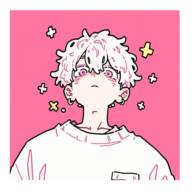
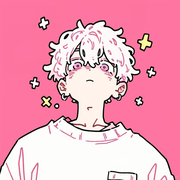
Add files via upload

diff --git a/styles.css b/styles.css
@@ -1,0 +1,99 @@
+:root {
+  --ink: #243a34;
+  --forest: #315c50;
+  --forest-dark: #23453b;
+  --sage: #a8c2ad;
+  --mist: #edf3ed;
+  --paper: #faf9f5;
+  --sand: #e8dfcf;
+  --clay: #bd6958;
+  --line: #d9dfd9;
+  --muted: #65756d;
+  --shadow: 0 12px 38px rgba(31, 57, 48, .08);
+}
+
+* { box-sizing: border-box; }
+html { scroll-behavior: smooth; }
+body { margin: 0; color: var(--ink); background: var(--paper); font-family: "DM Sans", sans-serif; }
+button, input, select, textarea { font: inherit; }
+button { cursor: pointer; }
+button:focus-visible, a:focus-visible, input:focus-visible, select:focus-visible, textarea:focus-visible { outline: 3px solid #9bc2ae; outline-offset: 2px; }
+
+.app-shell { display: flex; min-height: 100vh; }
+.sidebar { background: var(--forest); color: #eff5ed; width: 250px; min-height: 100vh; position: fixed; display: flex; flex-direction: column; padding: 34px 21px 23px; z-index: 5; }
+.brand { display: flex; align-items: center; gap: 11px; color: #f8faf4; text-decoration: none; font-family: "Playfair Display", serif; font-size: 22px; line-height: .8; letter-spacing: -.7px; padding: 0 10px 37px; }
+.brand em { color: #b8d0b9; font-style: italic; }
+.brand-mark { background: #d3e4d1; color: var(--forest); border-radius: 50%; width: 36px; height: 36px; display: grid; place-items: center; font-family: "DM Sans"; font-size: 22px; font-weight: 700; }
+.nav-list { display: grid; gap: 5px; }
+.nav-link { border: 0; color: #d7e3d8; background: transparent; text-align: left; padding: 11px 12px; border-radius: 9px; font-size: 14px; display: flex; align-items: center; gap: 13px; transition: .18s ease; }
+.nav-link span { font-size: 18px; width: 18px; text-align: center; }
+.nav-link:hover, .nav-link.is-active { background: rgba(237, 243, 237, .14); color: #fff; }
+.sidebar-footer { margin-top: auto; border-top: 1px solid rgba(255,255,255,.18); padding: 21px 11px 0; font-size: 12px; color: #cfddcf; line-height: 1.55; }
+.sidebar-footer p { margin: 0 0 12px; }
+.text-button { background: transparent; padding: 0; border: 0; color: var(--forest); font-weight: 700; font-size: 13px; }
+.sidebar .text-button { color: #e2f0df; text-decoration: underline; font-weight: 500; }
+
+.main-content { margin-left: 250px; width: calc(100% - 250px); padding: 0 5.5vw 60px; max-width: 1600px; }
+.topbar { min-height: 109px; display: flex; align-items: center; justify-content: space-between; border-bottom: 1px solid var(--line); margin-bottom: 38px; }
+.topbar h1 { margin: 2px 0 0; font-family: "Playfair Display", serif; font-size: 28px; letter-spacing: -.6px; font-weight: 600; }
+.eyebrow { font-size: 10px; font-weight: 700; letter-spacing: 1.7px; color: var(--muted); margin: 0; }
+.small-action, .outline-button, .danger-button { border: 1px solid #aac2b0; border-radius: 8px; padding: 10px 14px; font-weight: 700; color: var(--forest); background: transparent; font-size: 13px; transition: .18s ease; }
+.small-action:hover, .outline-button:hover { background: var(--mist); }
+.menu-button { display: none; }
+
+.page { display: none; animation: enter .25s ease; }
+.page.is-visible { display: block; }
+@keyframes enter { from { opacity: .35; transform: translateY(7px); } to { opacity: 1; transform: none; } }
+.welcome-card { min-height: 286px; background: #dcebdc; border-radius: 16px; overflow: hidden; display: flex; align-items: center; justify-content: space-between; padding: 38px 8% 34px 7%; position: relative; }
+.welcome-card:after { content: ""; position: absolute; width: 440px; height: 440px; border: 1px solid rgba(49,92,80,.13); border-radius: 50%; right: -154px; top: -140px; }
+.welcome-card > div:first-child { max-width: 530px; position: relative; z-index: 1; }
+.welcome-card h2, .page-intro h2 { font-family: "Playfair Display", serif; color: var(--forest-dark); letter-spacing: -1px; line-height: 1; font-size: clamp(31px, 3.4vw, 48px); margin: 10px 0 16px; }
+.welcome-card h2 i { font-weight: 600; color: #5c876f; }
+.welcome-card > div:first-child > p:not(.eyebrow) { color: #426256; margin: 0 0 24px; line-height: 1.55; font-size: 15px; max-width: 480px; }
+.primary-button { color: #fff; background: var(--forest); border: 0; border-radius: 8px; padding: 12px 16px; font-weight: 700; font-size: 13px; box-shadow: 0 4px 0 rgba(24,62,50,.17); transition: .18s ease; }
+.primary-button:hover { transform: translateY(-2px); background: var(--forest-dark); }
+.primary-button span { font-size: 18px; vertical-align: -1px; margin-left: 5px; }
+.growth-orbit { width: 188px; min-width: 188px; height: 188px; margin-left: 25px; background: rgba(255,255,255,.31); border: 1px solid rgba(49,92,80,.25); border-radius: 50%; position: relative; z-index: 1; }
+.growth-orbit:before, .growth-orbit:after { content: ""; position: absolute; border-radius: 50%; border: 1px solid rgba(49,92,80,.19); inset: 16px; }
+.growth-orbit:after { inset: 37px; }
+.orbit-core { position: absolute; inset: 59px 34px; background: var(--forest); color: #f2f6ee; border-radius: 50%; display: grid; place-items: center; font-family: "Playfair Display"; font-style: italic; font-size: 16px; transform: rotate(-7deg); }
+.orbit-label { position: absolute; font-size: 10px; color: #426256; font-weight: 700; letter-spacing: .8px; }
+.label-one { top: 13px; left: 64px; }.label-two { bottom: 22px; left: 10px; }.label-three { right: 4px; bottom: 45px; }
+
+.section-block { margin-top: 42px; }
+.section-heading, .panel-heading { display: flex; justify-content: space-between; align-items: flex-end; margin-bottom: 18px; gap: 18px; }
+.section-heading h2, .panel-heading h2 { font-family: "Playfair Display"; letter-spacing: -.45px; font-size: 24px; margin: 6px 0 0; color: var(--ink); }
+.stats-grid { display: grid; grid-template-columns: repeat(4, 1fr); gap: 14px; }
+.stat-card { background: #fff; border: 1px solid var(--line); border-radius: 12px; padding: 19px; min-height: 112px; }
+.stat-number { font-size: 32px; font-family: "Playfair Display"; color: var(--forest); line-height: 1; margin-bottom: 12px; }
+.stat-label { color: var(--muted); font-size: 12px; line-height: 1.3; }
+.dashboard-grid { display: grid; grid-template-columns: 1.55fr 1fr; gap: 17px; margin-top: 20px; }
+.panel { border: 1px solid var(--line); background: #fff; border-radius: 12px; padding: 23px; }
+.panel-heading { align-items: center; margin-bottom: 13px; }.panel-heading h2 { font-size: 20px; }
+.icon-button { border: 0; background: var(--mist); color: var(--forest); width: 31px; height: 31px; display: inline-grid; place-items: center; border-radius: 50%; font-size: 17px; }
+.muted-panel { background: #e6ede4; border-color: #d5e1d4; display: flex; flex-direction: column; justify-content: center; }
+.muted-panel blockquote { font-family: "Playfair Display"; font-size: 20px; line-height: 1.32; margin: 13px 0; color: #375c4c; }.quote-credit { font-size: 12px; color: #62806e; margin: 0; }
+.stack-list { display: grid; gap: 8px; }
+.mini-practice { padding: 12px; background: var(--paper); border-left: 3px solid #90b39a; border-radius: 5px; }.mini-practice h3 { font-size: 13px; margin: 0 0 4px; }.mini-practice p { font-size: 12px; line-height: 1.35; color: var(--muted); margin: 0; }
+.empty-inline { color: var(--muted); font-size: 13px; padding: 13px 0; }
+.health-dashboard { display: grid; grid-template-columns: 1.3fr 1fr 1fr; gap: 14px; }
+.health-glance-card { background: #fff; border: 1px solid var(--line); border-radius: 12px; padding: 19px; min-height: 126px; display: flex; flex-direction: column; justify-content: space-between; }.health-glance-card.soft { background: #edf4f3; border-color: #d7e4dc; }.health-glance-card h3 { font-family: "Playfair Display"; font-size: 20px; margin: 7px 0; }.health-glance-card p { color: var(--muted); font-size: 12px; line-height: 1.45; margin: 0; }.health-glance-card .glance-number { color: var(--forest); font-family: "Playfair Display"; font-size: 29px; line-height: 1; margin: 10px 0 2px; }.micro-progress { height: 5px; background: #d6e3d9; border-radius: 9px; overflow: hidden; margin-top: 12px; }.micro-progress i { display: block; height: 100%; background: #699b77; border-radius: inherit; }
+
+.reflection-grid { display: grid; grid-template-columns: repeat(3, 1fr); gap: 15px; }
+.reflection-card { background: #fff; text-align: left; border: 1px solid var(--line); padding: 17px; min-height: 167px; border-radius: 10px; display: flex; flex-direction: column; transition: .18s ease; }
+button.reflection-card { cursor: pointer; }.reflection-card:hover { border-color: #a8c0ad; transform: translateY(-2px); box-shadow: var(--shadow); }
+.card-meta { display: flex; justify-content: space-between; gap: 7px; font-size: 10px; color: var(--muted); text-transform: uppercase; letter-spacing: .9px; font-weight: 700; }.category-pill { color: var(--forest); background: var(--mist); text-transform: none; letter-spacing: 0; padding: 3px 7px; border-radius: 10px; margin-top: -3px; }
+.reflection-card h3 { font-family: "Playfair Display"; font-size: 19px; letter-spacing: -.25px; margin: 17px 0 8px; color: var(--ink); }.reflection-card p { font-size: 12px; line-height: 1.45; color: var(--muted); margin: 0; }.card-footer { font-size: 11px; color: #63806e; font-weight: 700; margin-top: auto; padding-top: 14px; }
+
+.page-intro { max-width: 760px; margin-bottom: 31px; }.page-intro h2 { margin-bottom: 11px; }.page-intro > p:not(.eyebrow) { color: var(--muted); font-size: 15px; line-height: 1.5; margin: 0; }.split-intro { max-width: none; display: flex; justify-content: space-between; align-items: flex-start; gap: 20px; }.split-intro > div { max-width: 770px; }.split-intro h2 { font-size: 36px; }
+.reflection-form { display: grid; gap: 18px; }.form-section { background: #fff; border: 1px solid var(--line); border-radius: 12px; padding: 25px; }.form-section-header { display: flex; gap: 15px; margin-bottom: 22px; }.step-number { flex: 0 0 29px; height: 29px; border-radius: 50%; display: grid; place-items: center; color: #fff; background: var(--forest); font-size: 11px; font-weight: 700; }.form-section h3 { font-family: "Playfair Display"; margin: 1px 0 5px; font-size: 21px; }.form-section-header p { color: var(--muted); margin: 0; font-size: 13px; line-height: 1.45; }
+label { display: grid; color: var(--ink); font-size: 12px; font-weight: 700; gap: 7px; }input, select, textarea { width: 100%; border: 1px solid #cdd8ce; border-radius: 7px; background: #fdfdfb; color: var(--ink); padding: 10px 11px; font-size: 13px; font-weight: 400; resize: vertical; }input::placeholder, textarea::placeholder { color: #97a49d; }textarea { line-height: 1.45; }label + label { margin-top: 16px; }.form-grid { display: grid; gap: 15px; margin-bottom: 16px; }.two-columns { grid-template-columns: 1fr 1fr; }.two-columns label + label { margin-top: 0; }.compact-fields { max-width: 560px; }.form-actions { display: flex; justify-content: space-between; align-items: center; gap: 20px; padding: 4px 2px; }.form-actions p { color: var(--muted); margin: 0; font-size: 12px; }
+.filter-row { display: flex; gap: 8px; flex-wrap: wrap; margin: -7px 0 21px; }.filter-button { border: 1px solid var(--line); background: #fff; color: var(--muted); border-radius: 100px; padding: 7px 11px; font-weight: 700; font-size: 12px; }.filter-button.is-active, .filter-button:hover { border-color: var(--forest); color: var(--forest); background: var(--mist); }.full-grid { grid-template-columns: repeat(3, 1fr); }
+.practice-list { display: grid; gap: 14px; }.practice-card { background: #fff; border: 1px solid var(--line); border-radius: 12px; padding: 22px; display: grid; grid-template-columns: 1fr auto; align-items: center; gap: 22px; }.practice-card h3 { margin: 0 0 8px; font-family: "Playfair Display"; font-size: 21px; }.practice-card .source { font-size: 11px; color: var(--muted); margin: 0 0 10px; }.practice-card .action-text { color: #4e6158; font-size: 14px; line-height: 1.5; margin: 0; max-width: 700px; }.practice-controls { display: flex; gap: 7px; flex-wrap: wrap; justify-content: flex-end; }.outcome-button { border: 1px solid var(--line); background: #fff; border-radius: 7px; padding: 8px 10px; font-size: 12px; font-weight: 700; color: var(--muted); }.outcome-button:hover, .outcome-button.is-selected { background: var(--mist); border-color: #83aa8c; color: var(--forest); }.outcome-button[data-outcome="gagal"].is-selected { background: #f8e9e5; border-color: #d28d80; color: #9a4739; }.outcome-button[data-outcome="sebagian"].is-selected { background: #faf0d5; border-color: #d9b873; color: #8d6617; }.practice-status { margin-top: 11px; font-size: 12px; color: #63806e; }.empty-practice-tip { border: 1px dashed #b4c6b6; padding: 26px; border-radius: 12px; display: flex; align-items: flex-start; gap: 15px; color: var(--ink); }.empty-practice-tip > span { width: 32px; height: 32px; border-radius: 50%; background: var(--mist); color: var(--forest); display: grid; place-items: center; }.empty-practice-tip h3 { margin: 0 0 5px; }.empty-practice-tip p { color: var(--muted); margin: 0 0 9px; font-size: 13px; }
+.health-disclaimer { background: #f5efe5; color: #77634b; border-left: 3px solid #d5b37d; padding: 11px 14px; font-size: 12px; line-height: 1.45; border-radius: 4px; margin: -9px 0 22px; }.health-tabs { display: flex; border-bottom: 1px solid var(--line); margin-bottom: 23px; gap: 5px; overflow-x: auto; }.health-tab { white-space: nowrap; padding: 10px 13px; border: 0; border-bottom: 2px solid transparent; margin-bottom: -1px; background: transparent; color: var(--muted); font-weight: 700; font-size: 13px; }.health-tab:hover, .health-tab.is-active { color: var(--forest); border-color: var(--forest); }.health-panel { display: none; animation: enter .23s ease; }.health-panel.is-visible { display: block; }.health-overview-grid { display: grid; grid-template-columns: 1.2fr 1fr; gap: 16px; margin-bottom: 16px; }.health-score-card { background: #f1f6f1; border-color: #dce9de; }.health-score-card .score-main { display: flex; align-items: baseline; gap: 10px; margin: 12px 0 9px; }.health-score-card .score-main strong { font-family: "Playfair Display"; font-size: 36px; color: var(--forest); line-height: 1; }.health-score-card .score-main span { font-size: 13px; color: var(--muted); }.health-score-card .score-details { display: flex; flex-wrap: wrap; gap: 8px; }.score-details span { background: #fff; border: 1px solid #dae7db; border-radius: 20px; color: #577065; font-size: 11px; padding: 5px 8px; }.health-score-card p { color: var(--muted); font-size: 13px; margin: 0; line-height: 1.45; }.health-note-card { background: #faf7f1; border-color: #eadfcf; }.health-note-card blockquote { font-family: "Playfair Display"; color: #5a695d; font-size: 18px; line-height: 1.36; margin: 13px 0 10px; }.health-note-card > p:last-child { color: var(--muted); font-size: 12px; line-height: 1.45; margin: 0; }.health-checkin { margin-top: 17px; }.health-fields { display: grid; grid-template-columns: repeat(5, 1fr); gap: 12px; margin: 17px 0; }.today-label { color: var(--forest); font-size: 12px; background: var(--mist); padding: 7px 9px; border-radius: 16px; font-weight: 700; }.routine-summary { display: flex; align-items: center; justify-content: space-between; gap: 25px; margin-bottom: 15px; background: #eef5ee; border-color: #dbe8dc; }.routine-summary h2, .add-routine h2, .food-form h2 { margin: 7px 0 5px; font-family: "Playfair Display"; font-size: 23px; }.routine-summary p:not(.eyebrow) { margin: 0; font-size: 13px; color: var(--muted); }.routine-progress { min-width: 138px; text-align: right; }.routine-progress span { display: block; font-family: "Playfair Display"; color: var(--forest); font-size: 30px; line-height: 1; }.routine-progress small { font-size: 11px; color: var(--muted); }.routine-progress-track { height: 6px; background: #d7e5da; border-radius: 9px; overflow: hidden; margin-top: 7px; }.routine-progress-track i { display: block; height: 100%; border-radius: inherit; background: #6fa27a; width: 0%; transition: width .2s ease; }.routine-list { display: grid; gap: 9px; }.routine-item { display: flex; align-items: center; gap: 13px; padding: 14px 16px; background: #fff; border: 1px solid var(--line); border-radius: 10px; }.routine-item.is-done { border-color: #b4cfb9; background: #f5faf5; }.routine-toggle { appearance: none; width: 21px; height: 21px; flex: 0 0 21px; border: 1px solid #a9bba9; border-radius: 50%; margin: 0; display: grid; place-content: center; cursor: pointer; }.routine-toggle::before { content: "✓"; color: #fff; font-size: 13px; font-weight: 700; transform: scale(0); transition: .15s ease; }.routine-toggle:checked { background: var(--forest); border-color: var(--forest); }.routine-toggle:checked::before { transform: scale(1); }.routine-time { color: #688076; font-weight: 700; font-size: 11px; width: 43px; }.routine-label { flex: 1; font-weight: 700; font-size: 13px; }.routine-item.is-done .routine-label { text-decoration: line-through; color: #718278; }.routine-area { color: var(--muted); background: var(--paper); border-radius: 12px; padding: 4px 7px; font-size: 10px; }.routine-remove { opacity: .35; background: transparent; border: 0; color: #a34a3b; font-size: 17px; padding: 2px 4px; }.routine-remove:hover { opacity: 1; }.add-routine { display: grid; grid-template-columns: 1fr auto; gap: 17px 24px; align-items: end; margin-top: 17px; }.add-routine-fields { display: grid; grid-template-columns: 2fr 1fr 1fr 1.2fr; gap: 10px; }.add-routine .outline-button { align-self: end; }.food-summary-grid { display: grid; grid-template-columns: 1.3fr 1fr; gap: 15px; margin-bottom: 15px; }.calorie-card { background: #f1f6f1; border-color: #dce9de; }.calorie-number { margin: 13px 0 10px; display: flex; align-items: baseline; gap: 8px; }.calorie-number strong { color: var(--forest); font: 39px/1 "Playfair Display"; }.calorie-number span { color: var(--muted); font-size: 13px; }.calorie-track { height: 8px; border-radius: 9px; background: #d7e5da; overflow: hidden; }.calorie-track i { display: block; height: 100%; border-radius: inherit; background: #74a480; transition: width .2s ease; }.calorie-card > p:last-child, .target-card > p { color: var(--muted); line-height: 1.45; font-size: 12px; margin: 10px 0 0; }.target-card label { max-width: 210px; margin-top: 12px; }.food-form { display: grid; grid-template-columns: 1fr auto; gap: 17px 24px; align-items: end; margin-bottom: 15px; }.food-form-fields { display: grid; grid-template-columns: 1fr 2fr 1fr; gap: 10px; }.food-form .primary-button { align-self: end; }.food-log-list { display: grid; gap: 6px; }.food-row { display: flex; align-items: center; gap: 11px; padding: 11px 0; border-top: 1px solid #edf0ed; }.food-row:first-child { border-top: 0; }.food-meal { background: var(--mist); border-radius: 14px; padding: 4px 7px; color: var(--forest); font-size: 10px; font-weight: 700; min-width: 69px; text-align: center; }.food-name { flex: 1; font-size: 13px; }.food-calories { color: var(--muted); font-size: 12px; font-weight: 700; }.food-delete { border: 0; background: transparent; color: #b96858; opacity: .5; font-size: 16px; }.food-delete:hover { opacity: 1; }.rhythm-intro { background: #eef5ee; border-color: #dce8dc; margin-bottom: 15px; }.rhythm-intro h2 { font: 26px/1.1 "Playfair Display"; margin: 8px 0; }.rhythm-intro p:not(.eyebrow) { color: var(--muted); max-width: 760px; line-height: 1.5; margin: 0; font-size: 13px; }.weekly-rhythm { display: grid; grid-template-columns: repeat(7, 1fr); gap: 9px; }.rhythm-day { border: 1px solid var(--line); background: #fff; border-radius: 10px; padding: 13px 11px; min-height: 178px; }.rhythm-day.is-today { border-color: #83aa8c; box-shadow: 0 5px 20px rgba(43, 83, 65, .09); }.rhythm-day > span { color: var(--forest); font-size: 11px; font-weight: 700; }.rhythm-day h3 { font: 18px/1.15 "Playfair Display"; margin: 10px 0 8px; }.rhythm-day p { color: var(--muted); font-size: 11px; line-height: 1.45; margin: 0 0 9px; }.rhythm-tag { color: #567666; background: var(--mist); border-radius: 9px; font-size: 10px; padding: 4px 6px; display: inline-block; }
+.review-grid { display: grid; grid-template-columns: 1fr 1fr 1fr; gap: 14px; }.review-card { background: #fff; border: 1px solid var(--line); border-radius: 12px; padding: 20px; min-height: 142px; }.review-card h3 { font-family: "Playfair Display"; font-size: 19px; margin: 8px 0; }.review-card p { font-size: 13px; color: var(--muted); line-height: 1.45; margin: 0; }.review-card .big-insight { color: var(--forest); font-family: "Playfair Display"; font-size: 28px; margin: 12px 0 4px; }.review-prompt { margin-top: 17px; background: #e6ede4; border-color: #d5e1d4; }.review-prompt h3 { font-family: "Playfair Display"; font-size: 22px; margin: 7px 0 13px; }.review-prompt p { color: #486759; line-height: 1.55; margin: 0; }.data-controls { border-top: 1px solid var(--line); margin-top: 42px; padding-top: 25px; display: flex; justify-content: space-between; gap: 25px; align-items: center; }.data-controls h3 { margin: 0 0 6px; font-family: "Playfair Display"; font-size: 20px; }.data-controls p { margin: 0; color: var(--muted); font-size: 13px; line-height: 1.45; max-width: 510px; }.data-buttons { display: flex; gap: 9px; flex-wrap: wrap; }.file-label { cursor: pointer; display: inline-flex; align-items: center; }.danger-button { color: #a34a3b; border-color: #d9a39a; }.danger-button:hover { background: #fbeceb; }
+dialog { border: 0; box-shadow: 0 20px 80px rgba(23, 47, 39, .25); }.detail-dialog { width: min(670px, calc(100vw - 28px)); max-height: calc(100vh - 45px); border-radius: 14px; padding: 0 31px 31px; background: var(--paper); color: var(--ink); }.detail-dialog::backdrop, .privacy-dialog::backdrop { background: rgba(22,45,37,.5); backdrop-filter: blur(2px); }.dialog-head { display: flex; justify-content: flex-end; padding-top: 15px; }.detail-dialog h2, .privacy-dialog h2 { font-family: "Playfair Display"; font-size: 31px; line-height: 1.05; margin: 12px 0 21px; }.detail-dialog h3 { margin: 24px 0 6px; color: var(--forest); font-size: 11px; letter-spacing: 1.3px; text-transform: uppercase; }.detail-dialog p { line-height: 1.55; color: #4d6258; margin: 0; }.detail-meta { display: flex; gap: 8px; align-items: center; color: var(--muted); font-size: 12px; }.detail-action { background: #e6ede4; padding: 16px; border-left: 3px solid #72a17e; border-radius: 6px; margin-top: 8px; }.detail-action p { color: #335346; }.privacy-dialog { width: min(470px, calc(100vw - 28px)); border-radius: 14px; background: var(--paper); padding: 32px; position: relative; }.privacy-dialog p:not(.eyebrow) { color: var(--muted); line-height: 1.55; }.dialog-close { border: 0; background: var(--mist); color: var(--forest); border-radius: 50%; position: absolute; right: 16px; top: 16px; width: 30px; height: 30px; font-size: 18px; }
+#toast { position: fixed; left: 50%; bottom: 27px; transform: translate(-50%, 30px); opacity: 0; transition: .25s ease; background: var(--forest-dark); color: #fff; border-radius: 8px; padding: 11px 16px; font-size: 13px; z-index: 20; pointer-events: none; box-shadow: var(--shadow); }#toast.is-visible { opacity: 1; transform: translate(-50%, 0); }
+
+@media (max-width: 1050px) { .reflection-grid, .full-grid { grid-template-columns: repeat(2, 1fr); }.stats-grid { grid-template-columns: repeat(2, 1fr); }.growth-orbit { transform: scale(.83); margin-right: -15px; }.welcome-card { padding-left: 6%; padding-right: 5%; }.health-fields { grid-template-columns: repeat(3, 1fr); }.weekly-rhythm { grid-template-columns: repeat(4, 1fr); }.add-routine-fields { grid-template-columns: 1.5fr 1fr; } }
+@media (max-width: 760px) { .sidebar { transform: translateX(-100%); transition: .2s ease; }.sidebar.is-open { transform: translateX(0); box-shadow: 10px 0 50px rgba(0,0,0,.16); }.main-content { margin-left: 0; width: 100%; padding: 0 20px 45px; }.topbar { min-height: 85px; margin-bottom: 26px; }.topbar h1 { font-size: 23px; }.menu-button { display: inline-grid; place-items: center; border: 0; background: var(--mist); color: var(--forest); height: 35px; width: 35px; border-radius: 7px; font-size: 17px; margin-right: 11px; }.topbar > div { margin-right: auto; }.small-action { display: none; }.welcome-card { padding: 31px 25px; min-height: 0; }.growth-orbit { display: none; }.welcome-card h2, .page-intro h2 { font-size: 33px; }.stats-grid, .dashboard-grid, .reflection-grid, .full-grid, .review-grid, .two-columns, .health-dashboard, .health-overview-grid, .food-summary-grid { grid-template-columns: 1fr; }.dashboard-grid { margin-top: 15px; }.section-block { margin-top: 32px; }.reflection-card { min-height: 143px; }.form-section { padding: 19px; }.form-actions, .split-intro, .data-controls { align-items: flex-start; flex-direction: column; }.split-intro .primary-button { margin-top: -7px; }.practice-card { grid-template-columns: 1fr; gap: 15px; }.practice-controls { justify-content: flex-start; }.detail-dialog { padding: 0 22px 25px; }.data-buttons { width: 100%; }.data-buttons > * { flex: 1; justify-content: center; }.section-heading h2 { font-size: 21px; }.section-heading { align-items: flex-end; }.health-fields { grid-template-columns: 1fr 1fr; }.routine-summary, .add-routine, .food-form { grid-template-columns: 1fr; flex-direction: column; align-items: flex-start; }.routine-summary { display: grid; }.routine-progress { text-align: left; }.add-routine-fields, .food-form-fields { grid-template-columns: 1fr; width: 100%; }.add-routine .outline-button, .food-form .primary-button { align-self: start; }.routine-item { align-items: flex-start; }.routine-area { display: none; }.weekly-rhythm { grid-template-columns: repeat(2, 1fr); }.rhythm-day { min-height: 145px; } }
